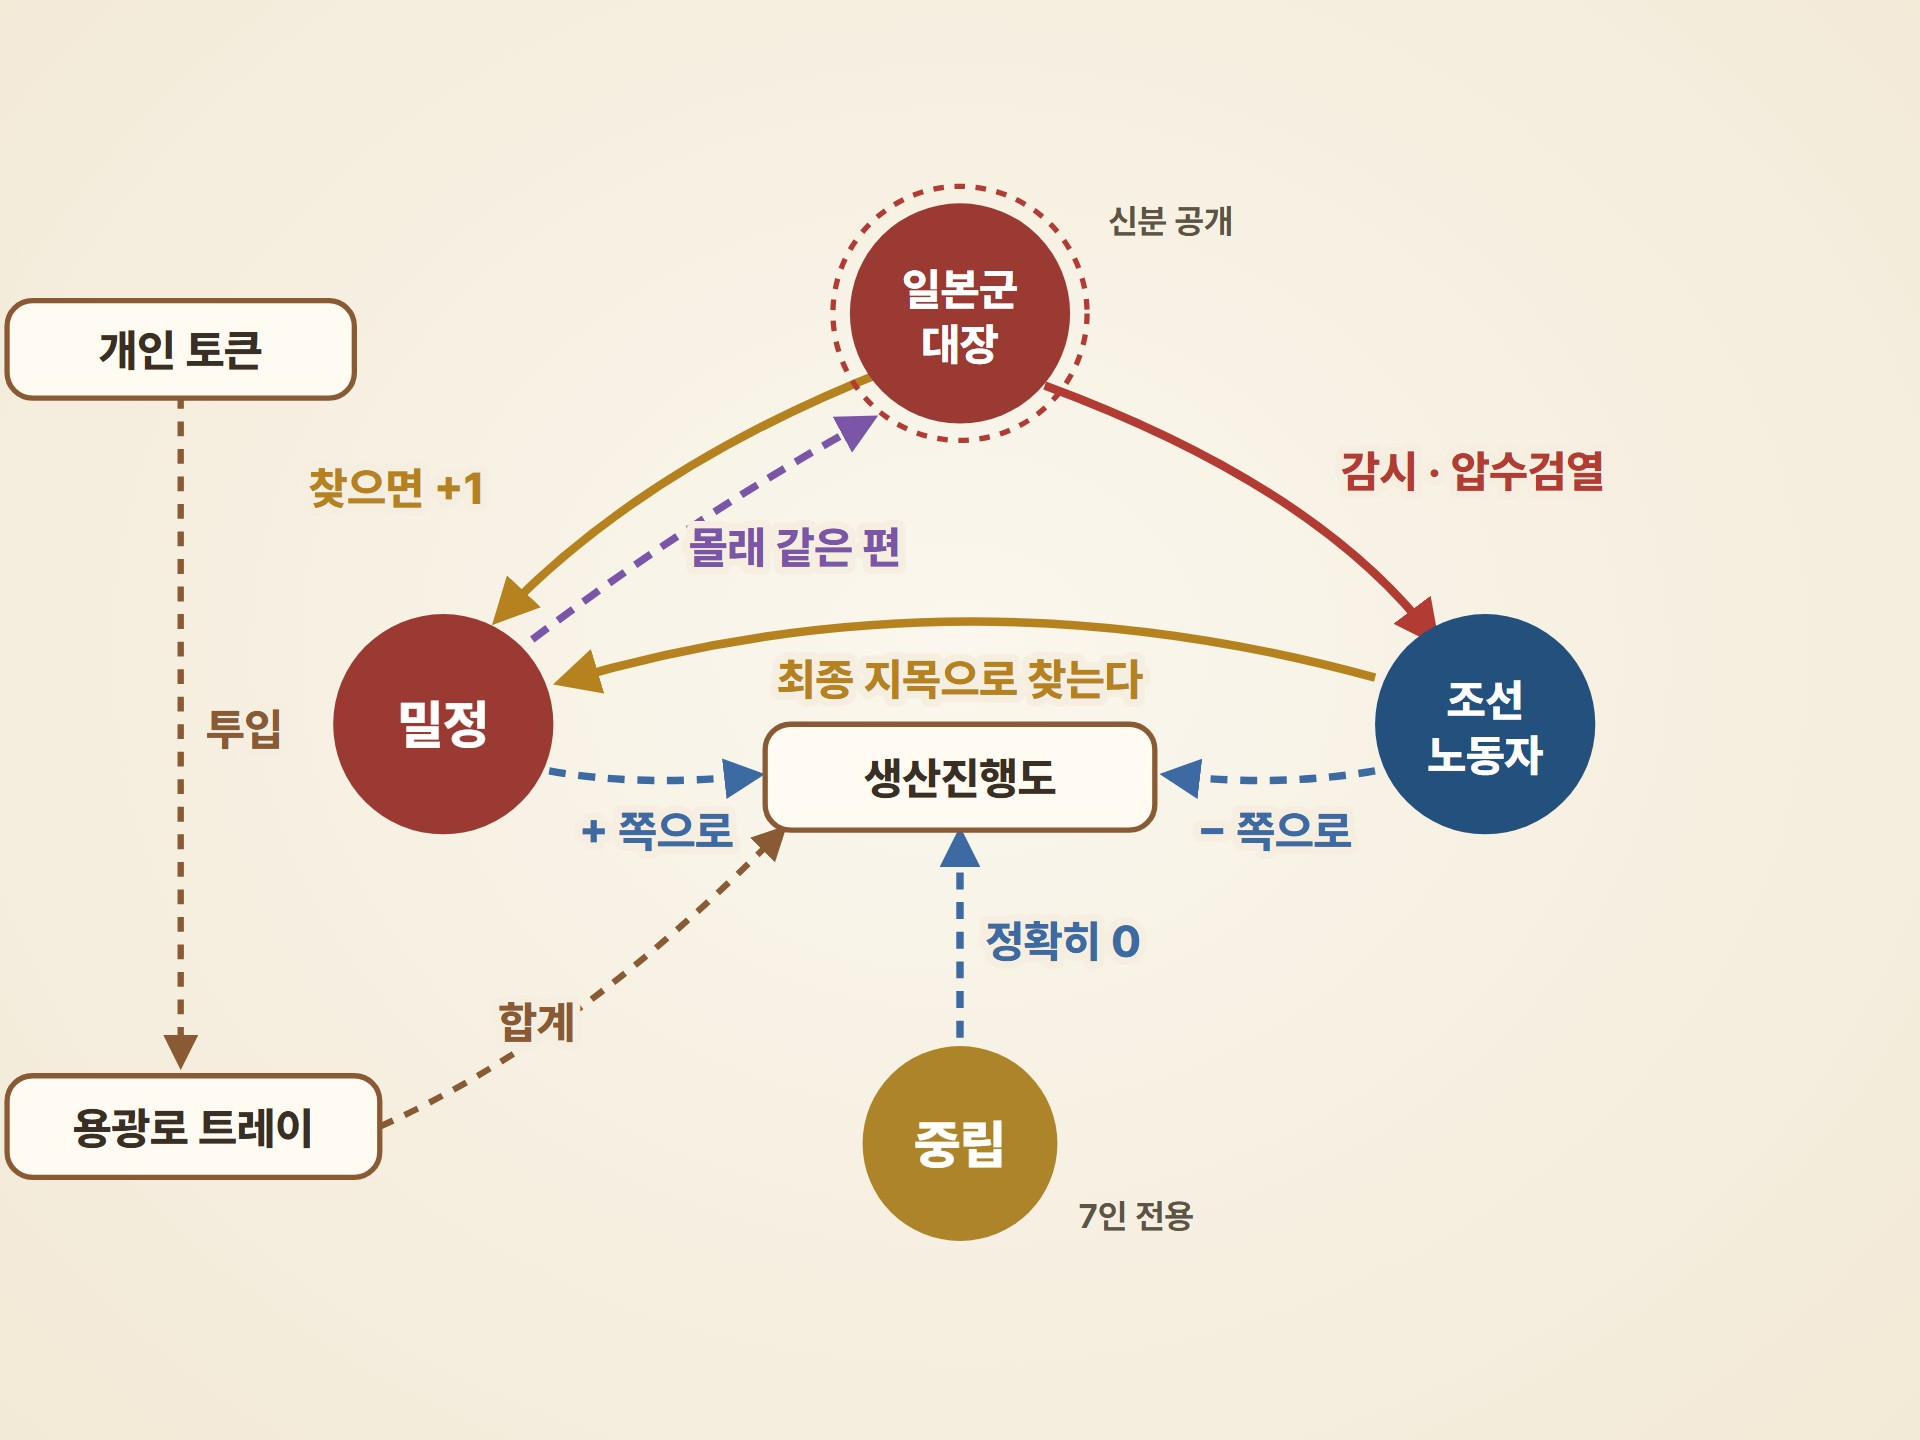
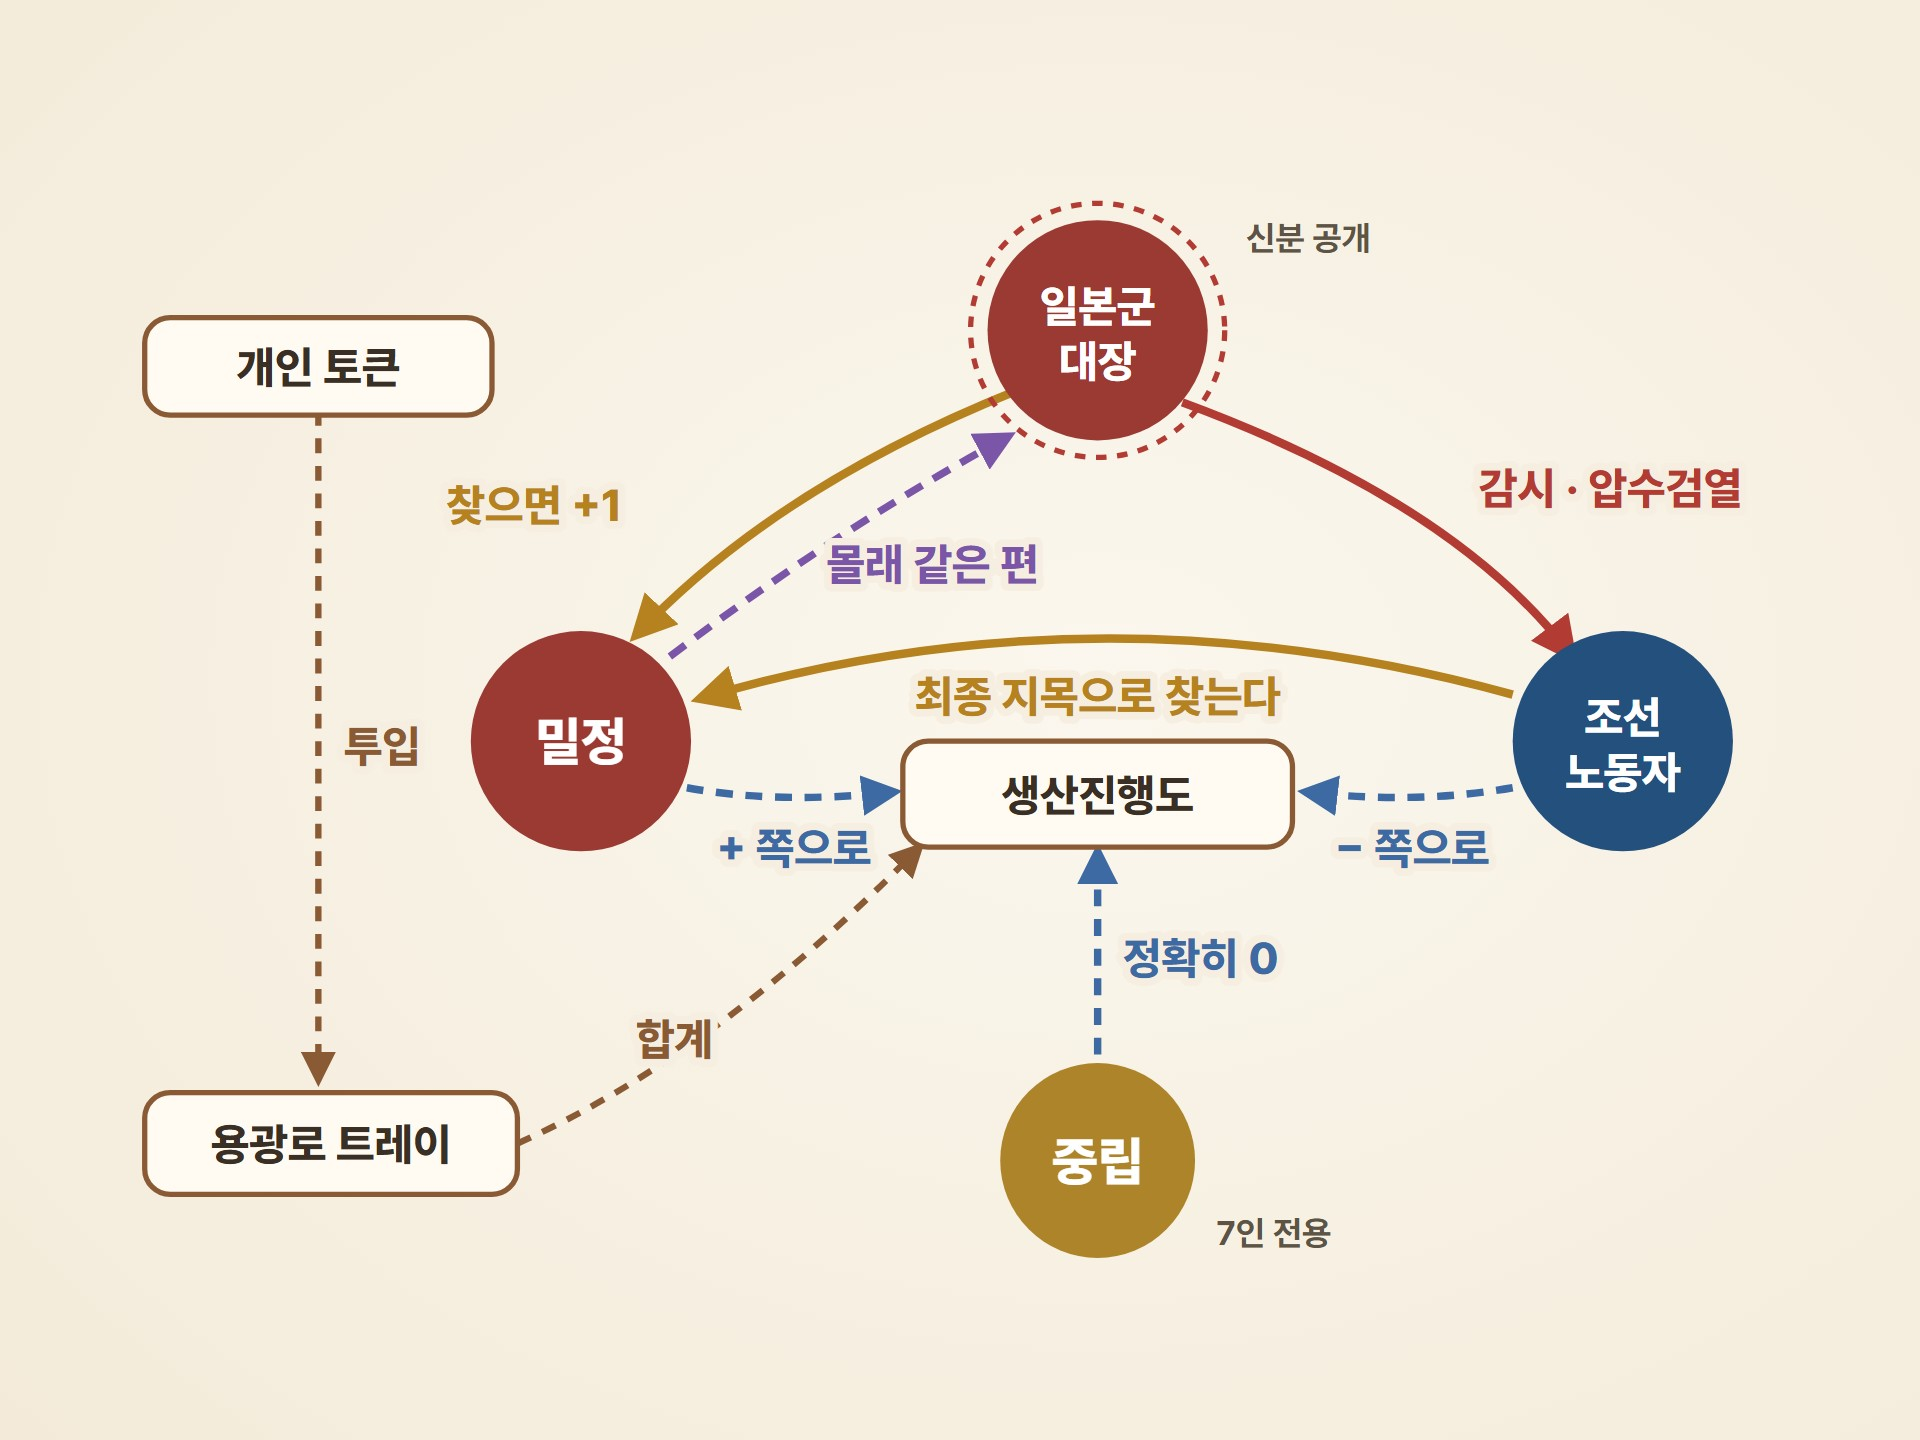
메커니즘 관계도 가운데 정렬

diff --git a/index.html b/index.html
@@ -3,8 +3,8 @@
 <title>보드메이커 랩 · 사업 프로세스 콘티</title>
 <link rel="preconnect" href="https://fonts.googleapis.com"><link rel="preconnect" href="https://fonts.gstatic.com" crossorigin>
 <link rel="stylesheet" href="https://fonts.googleapis.com/css2?family=Noto+Sans+KR:wght@400;600;700;800;900&display=swap">
-<link rel="stylesheet" href="보기/theme.css?v=mvg01tq6">
+<link rel="stylesheet" href="보기/theme.css?v=mvg031a9">
 </head><body>
-<script src="콘티.js?v=mvg01tq6"></script>
-<script src="보기/proc.js?v=mvg01tq6"></script>
+<script src="콘티.js?v=mvg031a9"></script>
+<script src="보기/proc.js?v=mvg031a9"></script>
 </body></html>
